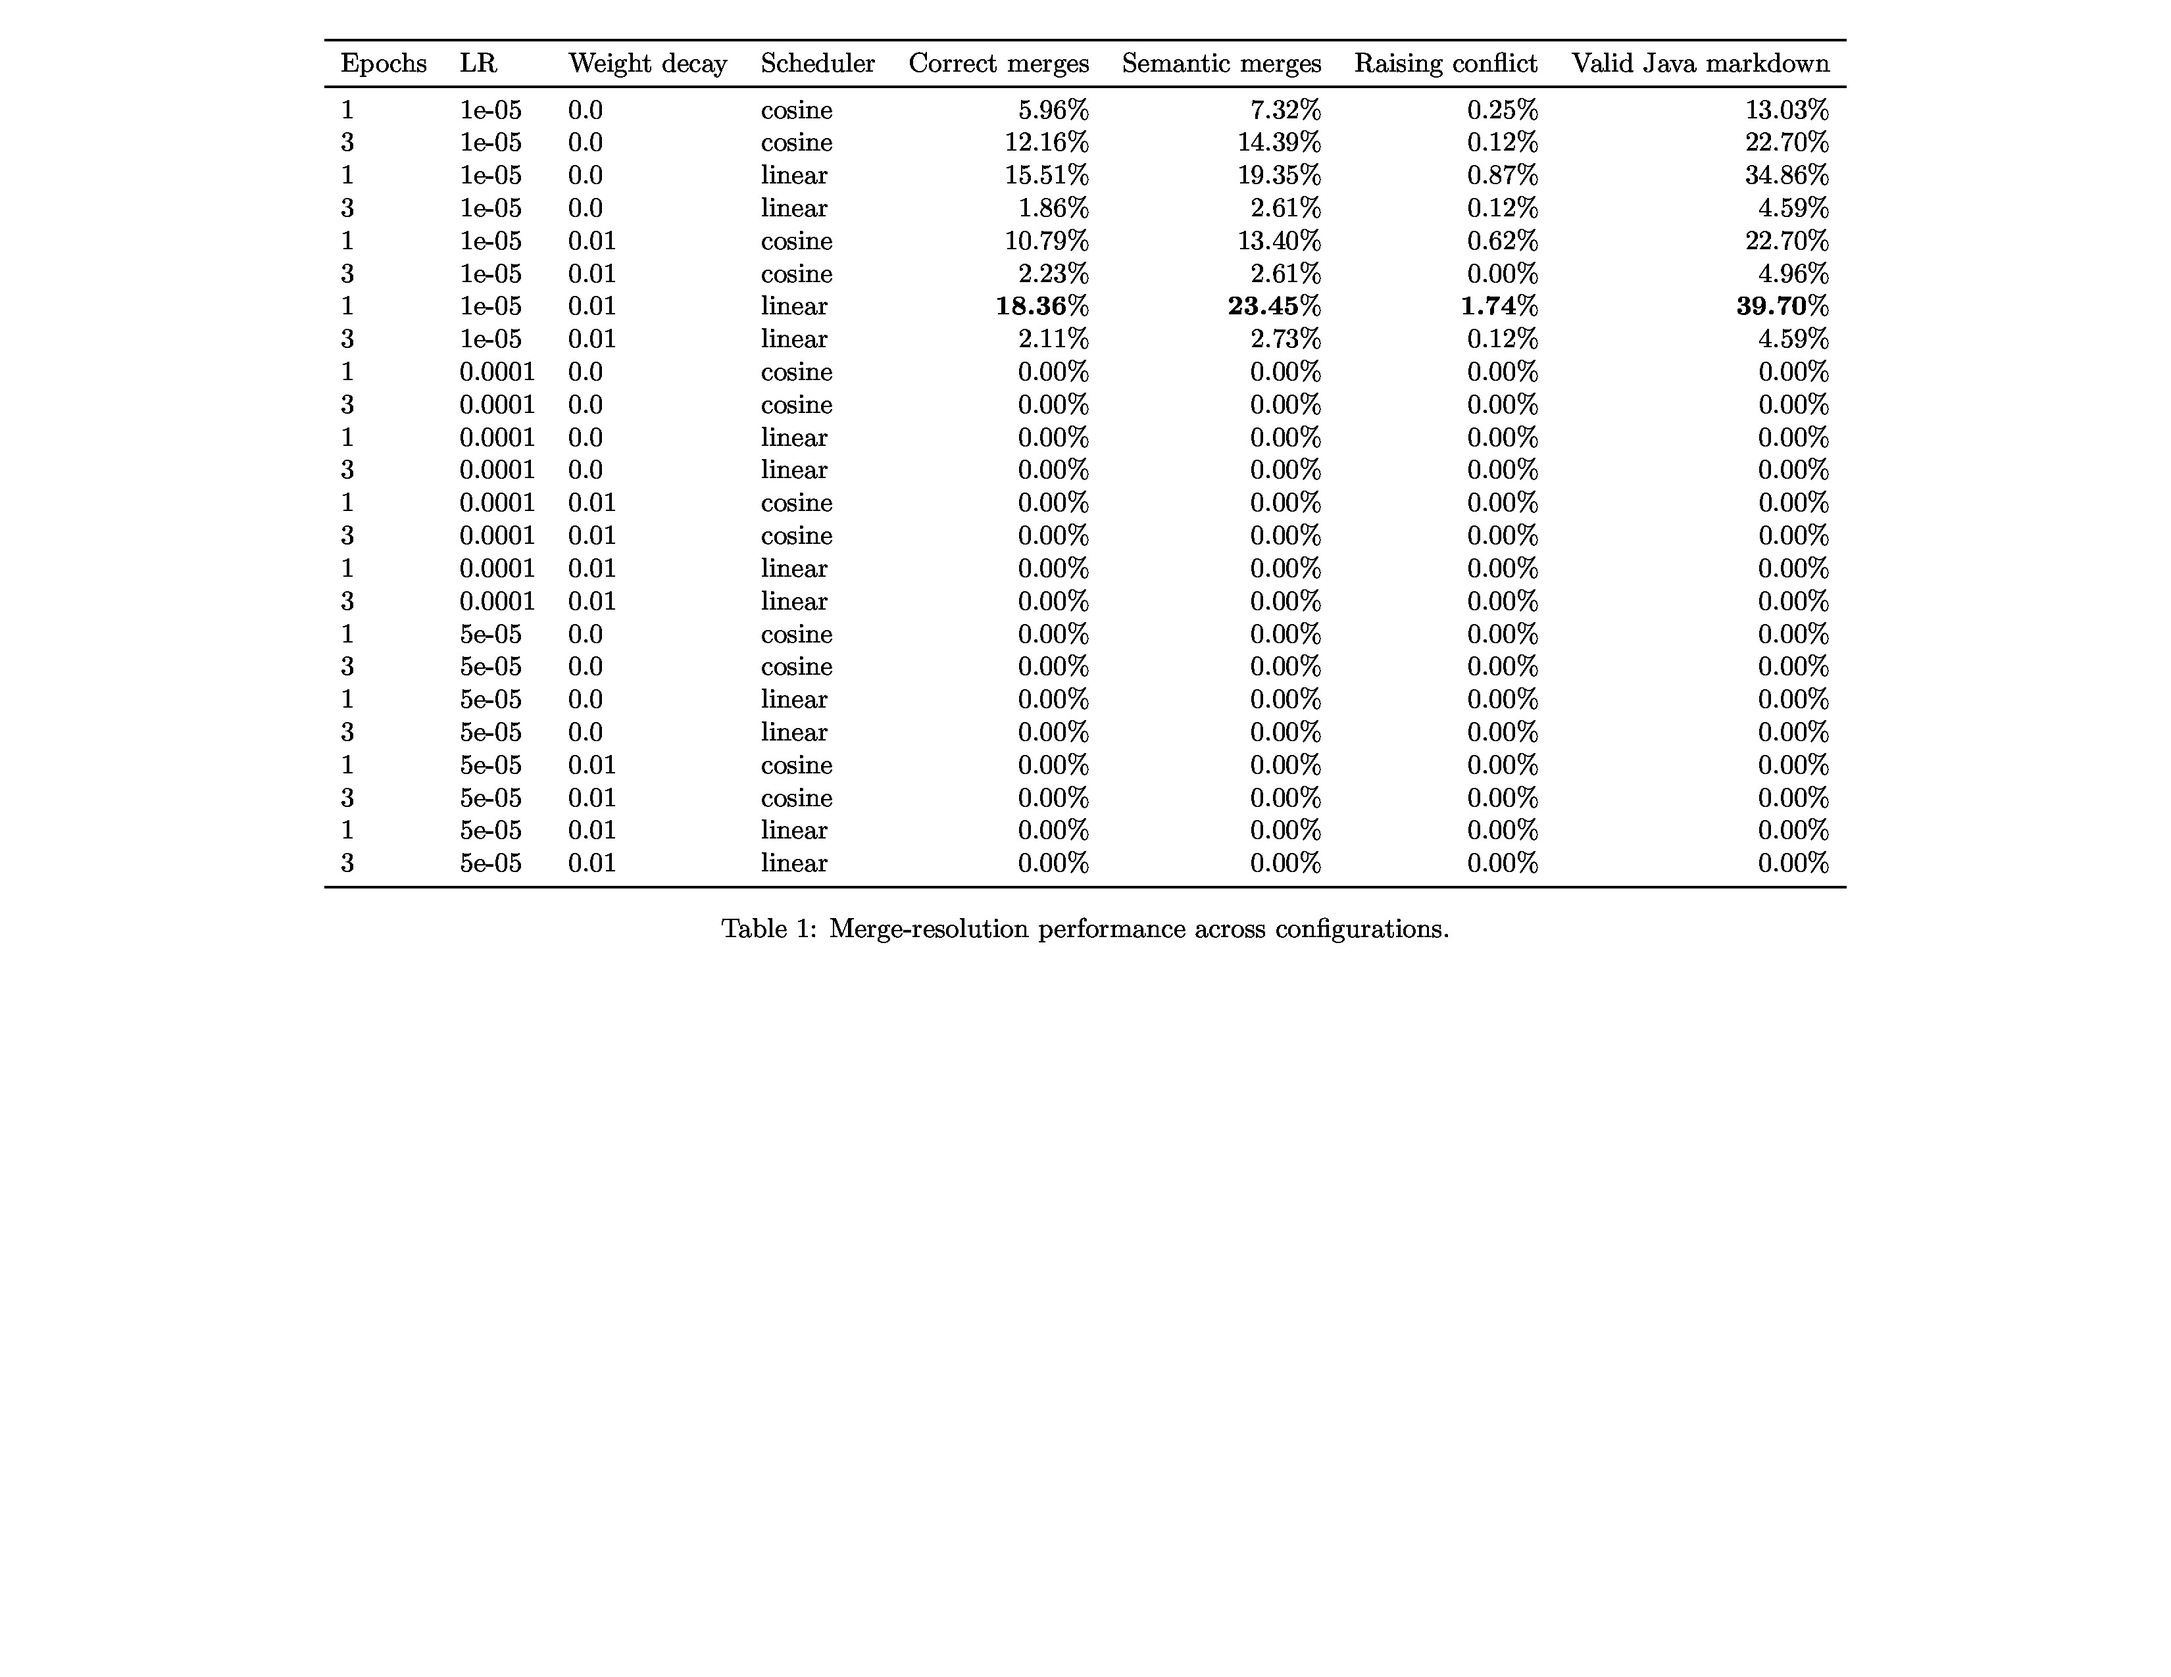
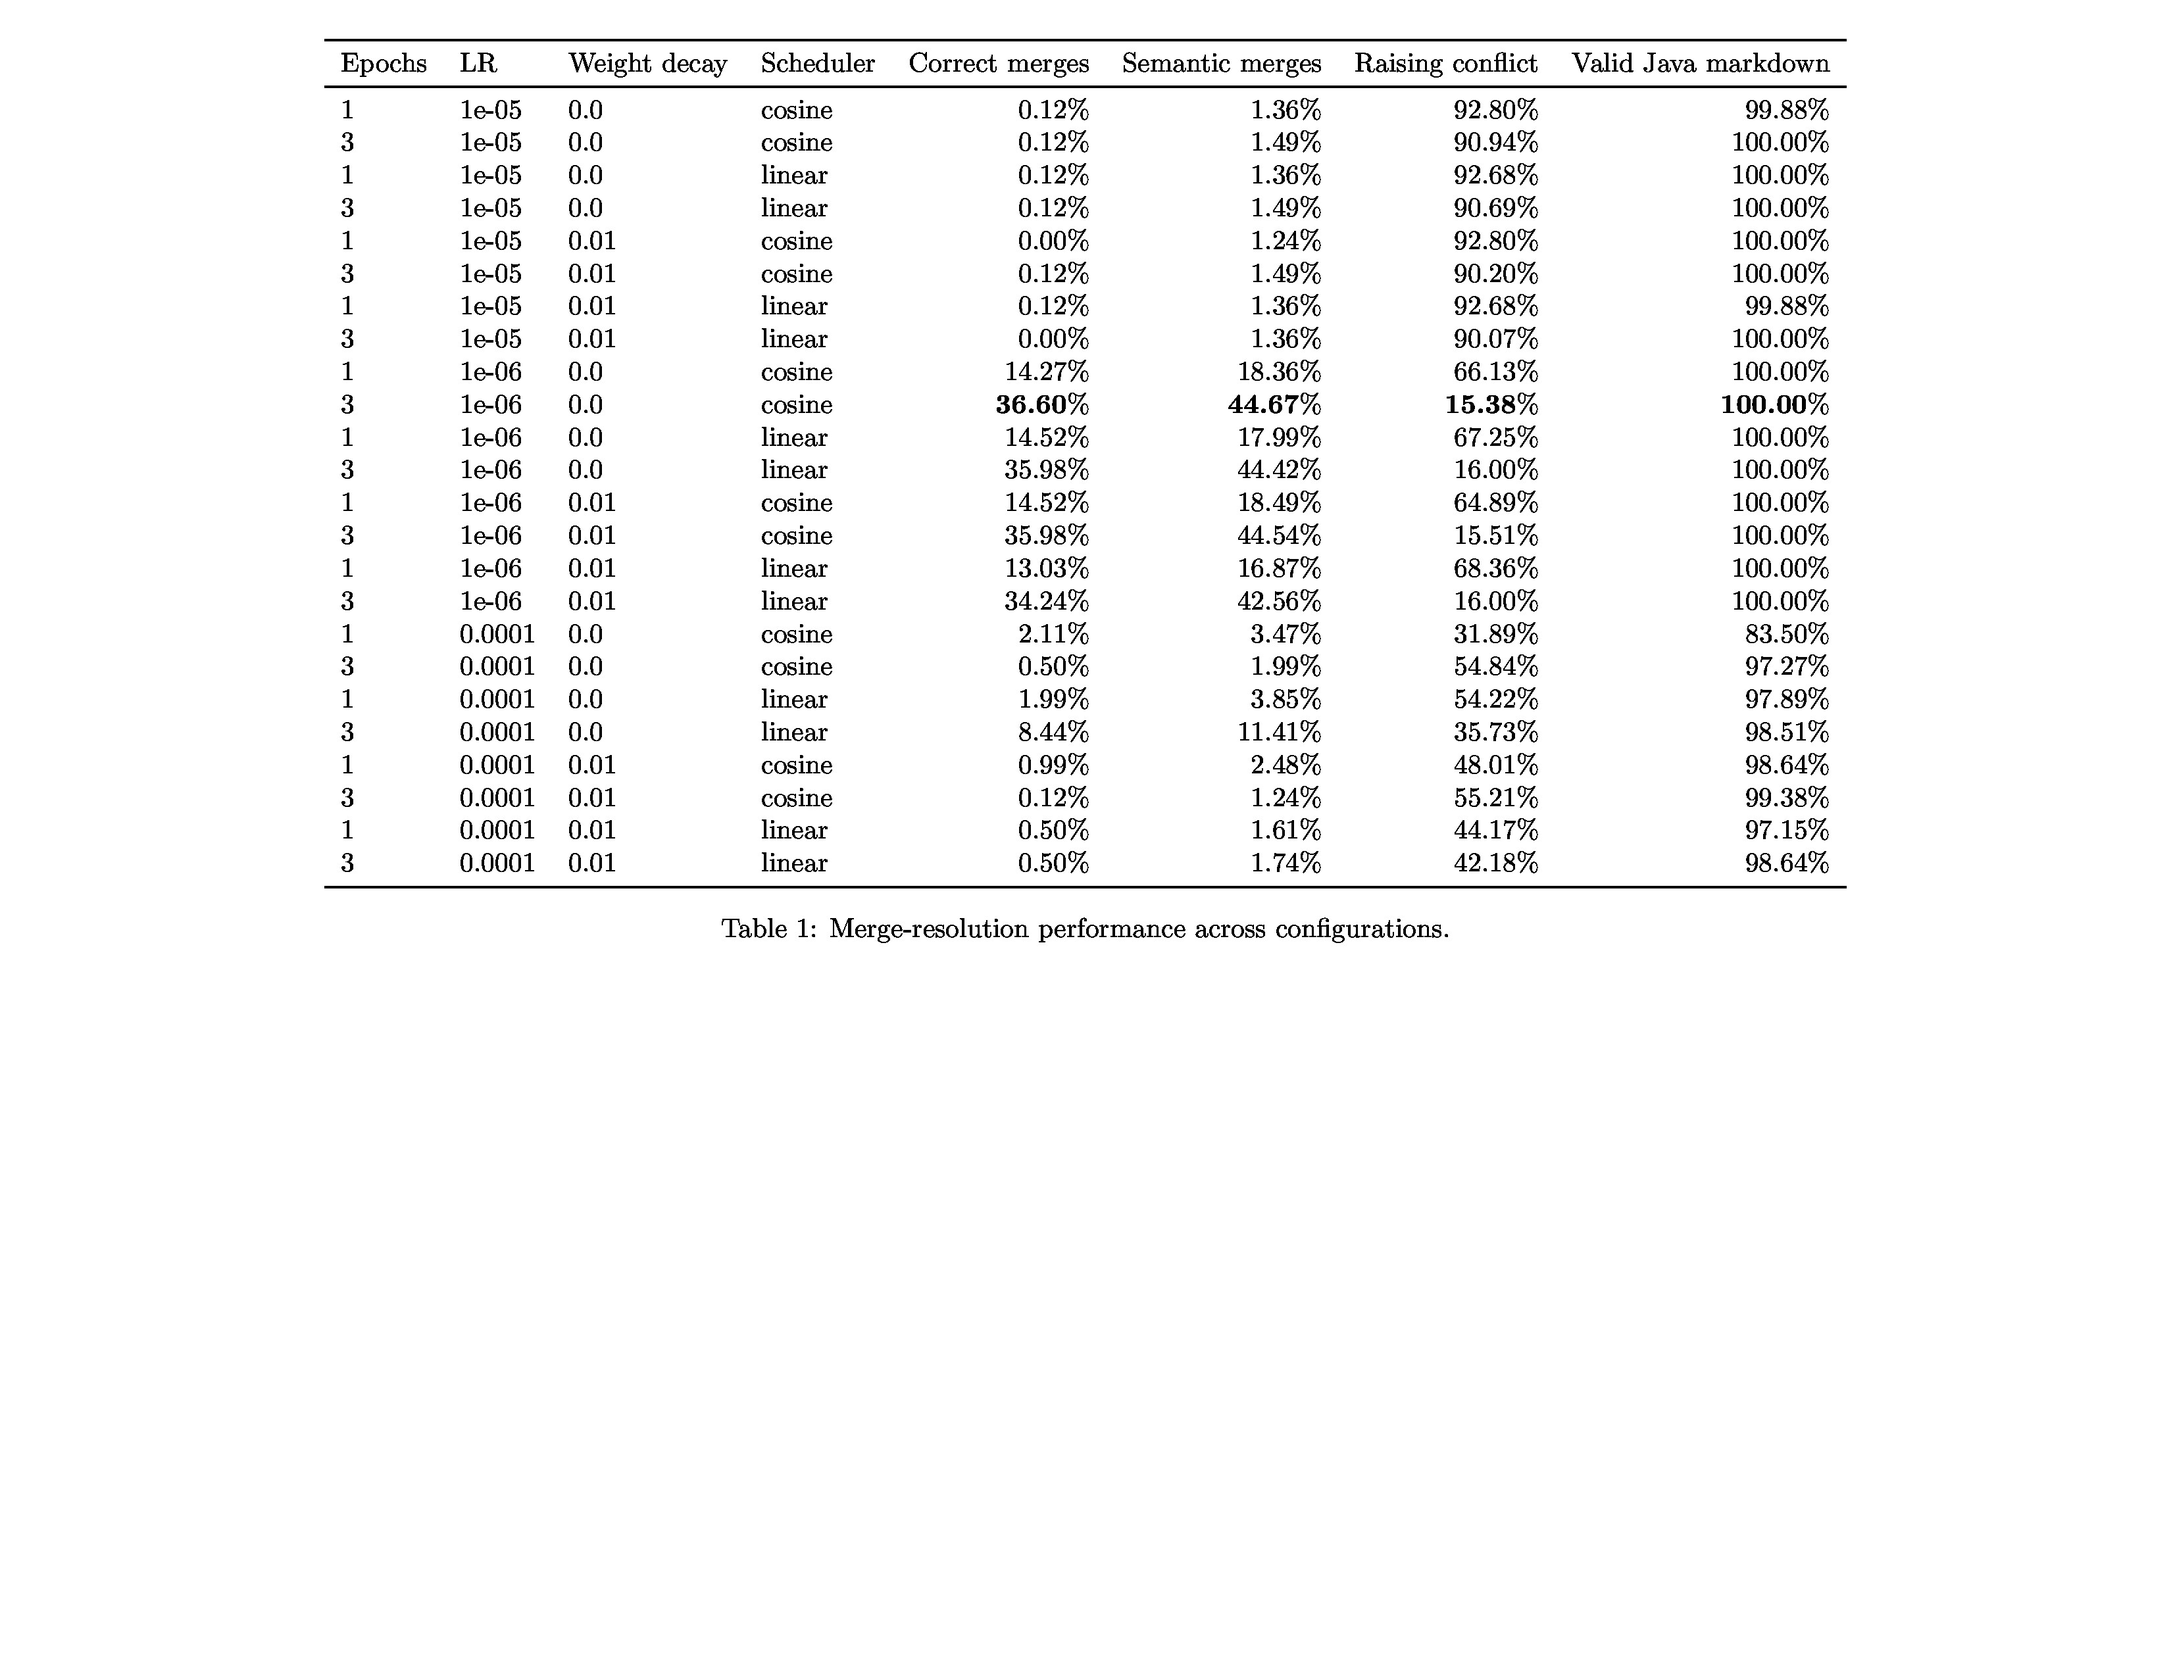
Added latest params

diff --git a/tables/results_table_sft.tex b/tables/results_table_sft.tex
@@ -4,30 +4,30 @@
 \toprule
 Epochs & LR & Weight decay & Scheduler & Correct merges & Semantic merges & Raising conflict & Valid Java markdown \\
 \midrule
-1 & 1e-05 & 0.0 & cosine & 5.96\% & 7.32\% & 0.25\% & 13.03\% \\
-3 & 1e-05 & 0.0 & cosine & 12.16\% & 14.39\% & 0.12\% & 22.70\% \\
-1 & 1e-05 & 0.0 & linear & 15.51\% & 19.35\% & 0.87\% & 34.86\% \\
-3 & 1e-05 & 0.0 & linear & 1.86\% & 2.61\% & 0.12\% & 4.59\% \\
-1 & 1e-05 & 0.01 & cosine & 10.79\% & 13.40\% & 0.62\% & 22.70\% \\
-3 & 1e-05 & 0.01 & cosine & 2.23\% & 2.61\% & 0.00\% & 4.96\% \\
-1 & 1e-05 & 0.01 & linear & \textbf{18.36}\% & \textbf{23.45}\% & \textbf{1.74}\% & \textbf{39.70}\% \\
-3 & 1e-05 & 0.01 & linear & 2.11\% & 2.73\% & 0.12\% & 4.59\% \\
-1 & 0.0001 & 0.0 & cosine & 0.00\% & 0.00\% & 0.00\% & 0.00\% \\
-3 & 0.0001 & 0.0 & cosine & 0.00\% & 0.00\% & 0.00\% & 0.00\% \\
-1 & 0.0001 & 0.0 & linear & 0.00\% & 0.00\% & 0.00\% & 0.00\% \\
-3 & 0.0001 & 0.0 & linear & 0.00\% & 0.00\% & 0.00\% & 0.00\% \\
-1 & 0.0001 & 0.01 & cosine & 0.00\% & 0.00\% & 0.00\% & 0.00\% \\
-3 & 0.0001 & 0.01 & cosine & 0.00\% & 0.00\% & 0.00\% & 0.00\% \\
-1 & 0.0001 & 0.01 & linear & 0.00\% & 0.00\% & 0.00\% & 0.00\% \\
-3 & 0.0001 & 0.01 & linear & 0.00\% & 0.00\% & 0.00\% & 0.00\% \\
-1 & 5e-05 & 0.0 & cosine & 0.00\% & 0.00\% & 0.00\% & 0.00\% \\
-3 & 5e-05 & 0.0 & cosine & 0.00\% & 0.00\% & 0.00\% & 0.00\% \\
-1 & 5e-05 & 0.0 & linear & 0.00\% & 0.00\% & 0.00\% & 0.00\% \\
-3 & 5e-05 & 0.0 & linear & 0.00\% & 0.00\% & 0.00\% & 0.00\% \\
-1 & 5e-05 & 0.01 & cosine & 0.00\% & 0.00\% & 0.00\% & 0.00\% \\
-3 & 5e-05 & 0.01 & cosine & 0.00\% & 0.00\% & 0.00\% & 0.00\% \\
-1 & 5e-05 & 0.01 & linear & 0.00\% & 0.00\% & 0.00\% & 0.00\% \\
-3 & 5e-05 & 0.01 & linear & 0.00\% & 0.00\% & 0.00\% & 0.00\% \\
+1 & 1e-05 & 0.0 & cosine & 0.12\% & 1.36\% & 92.80\% & 99.88\% \\
+3 & 1e-05 & 0.0 & cosine & 0.12\% & 1.49\% & 90.94\% & 100.00\% \\
+1 & 1e-05 & 0.0 & linear & 0.12\% & 1.36\% & 92.68\% & 100.00\% \\
+3 & 1e-05 & 0.0 & linear & 0.12\% & 1.49\% & 90.69\% & 100.00\% \\
+1 & 1e-05 & 0.01 & cosine & 0.00\% & 1.24\% & 92.80\% & 100.00\% \\
+3 & 1e-05 & 0.01 & cosine & 0.12\% & 1.49\% & 90.20\% & 100.00\% \\
+1 & 1e-05 & 0.01 & linear & 0.12\% & 1.36\% & 92.68\% & 99.88\% \\
+3 & 1e-05 & 0.01 & linear & 0.00\% & 1.36\% & 90.07\% & 100.00\% \\
+1 & 1e-06 & 0.0 & cosine & 14.27\% & 18.36\% & 66.13\% & 100.00\% \\
+3 & 1e-06 & 0.0 & cosine & \textbf{36.60}\% & \textbf{44.67}\% & \textbf{15.38}\% & \textbf{100.00}\% \\
+1 & 1e-06 & 0.0 & linear & 14.52\% & 17.99\% & 67.25\% & 100.00\% \\
+3 & 1e-06 & 0.0 & linear & 35.98\% & 44.42\% & 16.00\% & 100.00\% \\
+1 & 1e-06 & 0.01 & cosine & 14.52\% & 18.49\% & 64.89\% & 100.00\% \\
+3 & 1e-06 & 0.01 & cosine & 35.98\% & 44.54\% & 15.51\% & 100.00\% \\
+1 & 1e-06 & 0.01 & linear & 13.03\% & 16.87\% & 68.36\% & 100.00\% \\
+3 & 1e-06 & 0.01 & linear & 34.24\% & 42.56\% & 16.00\% & 100.00\% \\
+1 & 0.0001 & 0.0 & cosine & 2.11\% & 3.47\% & 31.89\% & 83.50\% \\
+3 & 0.0001 & 0.0 & cosine & 0.50\% & 1.99\% & 54.84\% & 97.27\% \\
+1 & 0.0001 & 0.0 & linear & 1.99\% & 3.85\% & 54.22\% & 97.89\% \\
+3 & 0.0001 & 0.0 & linear & 8.44\% & 11.41\% & 35.73\% & 98.51\% \\
+1 & 0.0001 & 0.01 & cosine & 0.99\% & 2.48\% & 48.01\% & 98.64\% \\
+3 & 0.0001 & 0.01 & cosine & 0.12\% & 1.24\% & 55.21\% & 99.38\% \\
+1 & 0.0001 & 0.01 & linear & 0.50\% & 1.61\% & 44.17\% & 97.15\% \\
+3 & 0.0001 & 0.01 & linear & 0.50\% & 1.74\% & 42.18\% & 98.64\% \\
 \bottomrule
 \end{tabular}
 \caption{Merge-resolution performance across configurations.}

diff --git a/tables/results_table_sft.md b/tables/results_table_sft.md
@@ -1,26 +1,26 @@
 | Epochs | LR | Weight decay | Scheduler | Correct merges | Semantic merges | Raising conflict | Valid Java markdown |
 | ---: | ---: | ---: | ---: | ---: | ---: | ---: | ---: |
-| 1 | 1e-05 | 0.0 | cosine | 5.96% | 7.32% | 0.25% | 13.03% |
-| 3 | 1e-05 | 0.0 | cosine | 12.16% | 14.39% | 0.12% | 22.70% |
-| 1 | 1e-05 | 0.0 | linear | 15.51% | 19.35% | 0.87% | 34.86% |
-| 3 | 1e-05 | 0.0 | linear | 1.86% | 2.61% | 0.12% | 4.59% |
-| 1 | 1e-05 | 0.01 | cosine | 10.79% | 13.40% | 0.62% | 22.70% |
-| 3 | 1e-05 | 0.01 | cosine | 2.23% | 2.61% | 0.00% | 4.96% |
-| 1 | 1e-05 | 0.01 | linear | **18.36%** | **23.45%** | **1.74%** | **39.70%** |
-| 3 | 1e-05 | 0.01 | linear | 2.11% | 2.73% | 0.12% | 4.59% |
-| 1 | 0.0001 | 0.0 | cosine | 0.00% | 0.00% | 0.00% | 0.00% |
-| 3 | 0.0001 | 0.0 | cosine | 0.00% | 0.00% | 0.00% | 0.00% |
-| 1 | 0.0001 | 0.0 | linear | 0.00% | 0.00% | 0.00% | 0.00% |
-| 3 | 0.0001 | 0.0 | linear | 0.00% | 0.00% | 0.00% | 0.00% |
-| 1 | 0.0001 | 0.01 | cosine | 0.00% | 0.00% | 0.00% | 0.00% |
-| 3 | 0.0001 | 0.01 | cosine | 0.00% | 0.00% | 0.00% | 0.00% |
-| 1 | 0.0001 | 0.01 | linear | 0.00% | 0.00% | 0.00% | 0.00% |
-| 3 | 0.0001 | 0.01 | linear | 0.00% | 0.00% | 0.00% | 0.00% |
-| 1 | 5e-05 | 0.0 | cosine | 0.00% | 0.00% | 0.00% | 0.00% |
-| 3 | 5e-05 | 0.0 | cosine | 0.00% | 0.00% | 0.00% | 0.00% |
-| 1 | 5e-05 | 0.0 | linear | 0.00% | 0.00% | 0.00% | 0.00% |
-| 3 | 5e-05 | 0.0 | linear | 0.00% | 0.00% | 0.00% | 0.00% |
-| 1 | 5e-05 | 0.01 | cosine | 0.00% | 0.00% | 0.00% | 0.00% |
-| 3 | 5e-05 | 0.01 | cosine | 0.00% | 0.00% | 0.00% | 0.00% |
-| 1 | 5e-05 | 0.01 | linear | 0.00% | 0.00% | 0.00% | 0.00% |
-| 3 | 5e-05 | 0.01 | linear | 0.00% | 0.00% | 0.00% | 0.00% |
+| 1 | 1e-05 | 0.0 | cosine | 0.12% | 1.36% | 92.80% | 99.88% |
+| 3 | 1e-05 | 0.0 | cosine | 0.12% | 1.49% | 90.94% | 100.00% |
+| 1 | 1e-05 | 0.0 | linear | 0.12% | 1.36% | 92.68% | 100.00% |
+| 3 | 1e-05 | 0.0 | linear | 0.12% | 1.49% | 90.69% | 100.00% |
+| 1 | 1e-05 | 0.01 | cosine | 0.00% | 1.24% | 92.80% | 100.00% |
+| 3 | 1e-05 | 0.01 | cosine | 0.12% | 1.49% | 90.20% | 100.00% |
+| 1 | 1e-05 | 0.01 | linear | 0.12% | 1.36% | 92.68% | 99.88% |
+| 3 | 1e-05 | 0.01 | linear | 0.00% | 1.36% | 90.07% | 100.00% |
+| 1 | 1e-06 | 0.0 | cosine | 14.27% | 18.36% | 66.13% | 100.00% |
+| 3 | 1e-06 | 0.0 | cosine | **36.60%** | **44.67%** | **15.38%** | **100.00%** |
+| 1 | 1e-06 | 0.0 | linear | 14.52% | 17.99% | 67.25% | 100.00% |
+| 3 | 1e-06 | 0.0 | linear | 35.98% | 44.42% | 16.00% | 100.00% |
+| 1 | 1e-06 | 0.01 | cosine | 14.52% | 18.49% | 64.89% | 100.00% |
+| 3 | 1e-06 | 0.01 | cosine | 35.98% | 44.54% | 15.51% | 100.00% |
+| 1 | 1e-06 | 0.01 | linear | 13.03% | 16.87% | 68.36% | 100.00% |
+| 3 | 1e-06 | 0.01 | linear | 34.24% | 42.56% | 16.00% | 100.00% |
+| 1 | 0.0001 | 0.0 | cosine | 2.11% | 3.47% | 31.89% | 83.50% |
+| 3 | 0.0001 | 0.0 | cosine | 0.50% | 1.99% | 54.84% | 97.27% |
+| 1 | 0.0001 | 0.0 | linear | 1.99% | 3.85% | 54.22% | 97.89% |
+| 3 | 0.0001 | 0.0 | linear | 8.44% | 11.41% | 35.73% | 98.51% |
+| 1 | 0.0001 | 0.01 | cosine | 0.99% | 2.48% | 48.01% | 98.64% |
+| 3 | 0.0001 | 0.01 | cosine | 0.12% | 1.24% | 55.21% | 99.38% |
+| 1 | 0.0001 | 0.01 | linear | 0.50% | 1.61% | 44.17% | 97.15% |
+| 3 | 0.0001 | 0.01 | linear | 0.50% | 1.74% | 42.18% | 98.64% |
